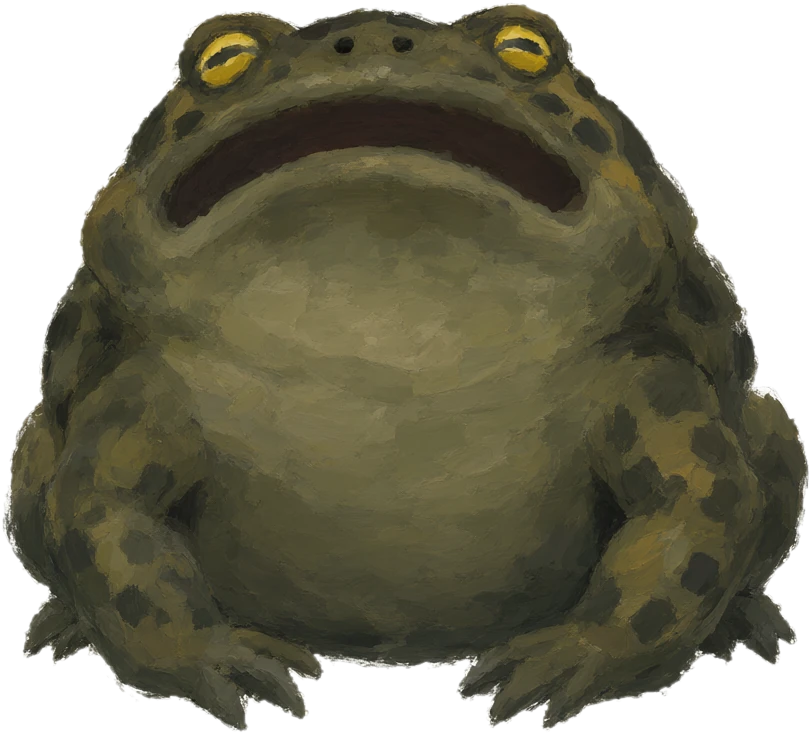
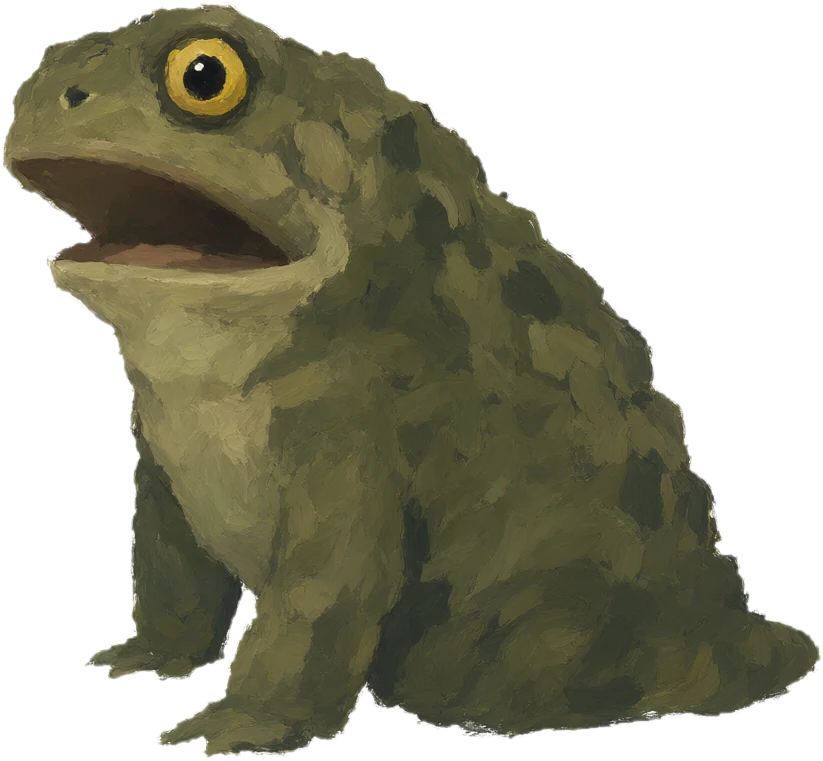
art(enemies): 立牌体态铁律修版——全身照+正侧面朝左（rockSnail 翻转 / snowwolf、pufferToad 重生成）
- 用户 2026-09-22 改定视角口径：正视图 → 全身照 + 正侧面面向左（球/墩形怪豁免）
- rockSnail：白底真源（art_src/enemies_unit）水平翻转后重抠，画幅与原版一致
- snowwolf：半身像 → 全身站姿正侧面重生成；pufferToad：正面 → 正侧面重生成
- genEnemies STYLE/NEGATIVE 固化体态词（full body / strict side view facing left / 禁 front view、portrait、facing right）
- ENEMY_ART_LIST.md §0 视角条同步改定

diff --git a/battle_gameplay/ENEMY_ART_LIST.md b/battle_gameplay/ENEMY_ART_LIST.md
@@ -15,12 +15,14 @@
 > 「是什么 + 大致轮廓 + 主色 + 一个点缀」（完成度由描述留白驱动，不由风格措辞）；
 > 灰暗低饱和、大色面低完成度厚涂、白底无影。slime 同步换上手绘版（`art_src/角色/史莱姆.png`），
 > mossBall/buzzbug/swampAmbusher 沿用原手绘立牌不变。
+> **体态返修（2026-09-22）**：rockSnail 朝右 → 源图水平翻转；snowwolf 只有半身、pufferToad 正面照 → 按全身正侧面重生成；`genEnemies.mjs` 的 STYLE/NEGATIVE 已固化「full body + strict side view facing left」（球/墩形怪豁免）。
 
 ## 0. 通用规格（对齐 STAGE_DESIGN §立牌）
 
 - **文件名**：`unit_<defId>.png`（defId 见各条目；转 WebP 后查表按去扩展名匹配，混放均可）。
 - **画幅**：竖构图，约 **800×1000**（现有四张实测 604×896 ~ 841×1069）。人物主体占满画幅、已抠 alpha。
-- **视角**：敌人一律**正视图**（正对屏幕）；全身、**无阴影、无底座、无文字**。
+- **视角**（2026-09-22 用户改定）：敌人一律**全身照 + 正侧面（面向左）**；**无阴影、无底座、无文字**。
+  无明确头尾朝向的球/墩形怪（史莱姆、腐苔球、石茧这类）不受朝向约束。
 - **登记**：`src/stage/art/unitArt.js` 的 `UNIT_ART_FILES`（defId→文件名）+ `UNIT_HEIGHT_FACTOR`
   （体型系数；基准 1.0 ≈ 26 世界单位身高。条目里给的 ~数值是建议，最终以画面比例微调）。
 - **染色友好**：部分敌人有程序化 tint 演出（渊素食客三段变色、温室之后舞步变色）——
